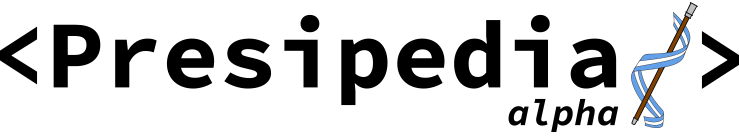
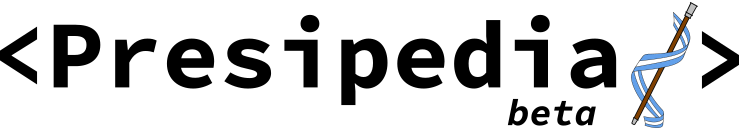
Actualizacion db: mandato Milei. Cambio a version 1.0.5 (beta)

Changed region(s): [[0.6847, 0.6957, 0.8403, 0.9565]]

diff --git a/src/views/About/index.jsx b/src/views/About/index.jsx
@@ -29,7 +29,7 @@ const View = () => (
                 </ul>
             </TextBlock>
             <TextBlock title="Versión">
-                <b>{APP_NAME}</b> se encuentra actualmente en su versión <b>alpha</b>, lo que significa que este producto está transitando su fase inicial de desarrollo luego de su publicación. Por ello, el software puede resultar inestable, contener errores o sufrir muchos cambios en plazos cortos.
+                <b>{APP_NAME}</b> se encuentra actualmente en su versión <b>beta</b>, lo que significa que este producto está transitando fases iniciales de desarrollo luego de su publicación. Por ello, el software puede resultar inestable o contener errores.
             </TextBlock>
             <TextBlock title="Contribuciones al proyecto">
                 Cualquier comentario, sugerencia o cambio que desee incluir en el proyecto será bienvenido. Este proyecto sigue los términos de licencia de la <a href="https://www.gnu.org/licenses/gpl-3.0.html" rel="noopener" target="_blank">GNU General Public License (v3)</a>, por lo que deberá tener en cuenta que estará liberando su trabajo según los términos de esta misma licencia.

diff --git a/src/model/constants.js b/src/model/constants.js
@@ -4,8 +4,8 @@ import moment from "moment";
 export const DEBUG_MODE = false;
 export const AVAILABLE_DEBUG_MODES = ["log", "error", "info", "warn", "table"];
 export const APP_NAME = "Presipedia: Edición Argentina";
-export const VERSION_CODE = "5";
-export const VERSION_VALUE = "1.0.4 (alpha)";
+export const VERSION_CODE = "6";
+export const VERSION_VALUE = "1.0.5 (beta)";
 export const BUILD_DATE = 1696264323611; // 2-10-2023 13:32 hs
 //// DATE-TIME ////
 export const DAY_MS = 86400000;

diff --git a/backlog.md b/backlog.md
@@ -54,13 +54,13 @@
     - [x] Menú de visualizaciones.  
     - [x] Menú de Juegos.  
     - [x] Menú de datos.  
-  - [ ] Branding y promoción:  
+  - [x] Branding y promoción:  
     - [x] Logo  
     - [x] Nombre  
     - [x] Eslogans  
     - [x] Capturas de pantalla  
-    - [ ] Video demo  
-    - [ ] Publicaciones  
+    - [x] Video demo  
+    - [x] Publicaciones  
   - [x] Compilación  
     - [x] Generar bundle y probar en servidor local.  
     - [x] Compilar version dev para android.  
@@ -70,7 +70,7 @@
   - [x] Opensourcing del repo.  
   
 
-### v1.1._ (beta) (requisitos pendientes):  
+### v1.1._ (beta):  
   - [ ] Optimizar tareas de mantenimiento y actualización.  
   - [ ] Tests  
     - [ ] APP: End to end.  
